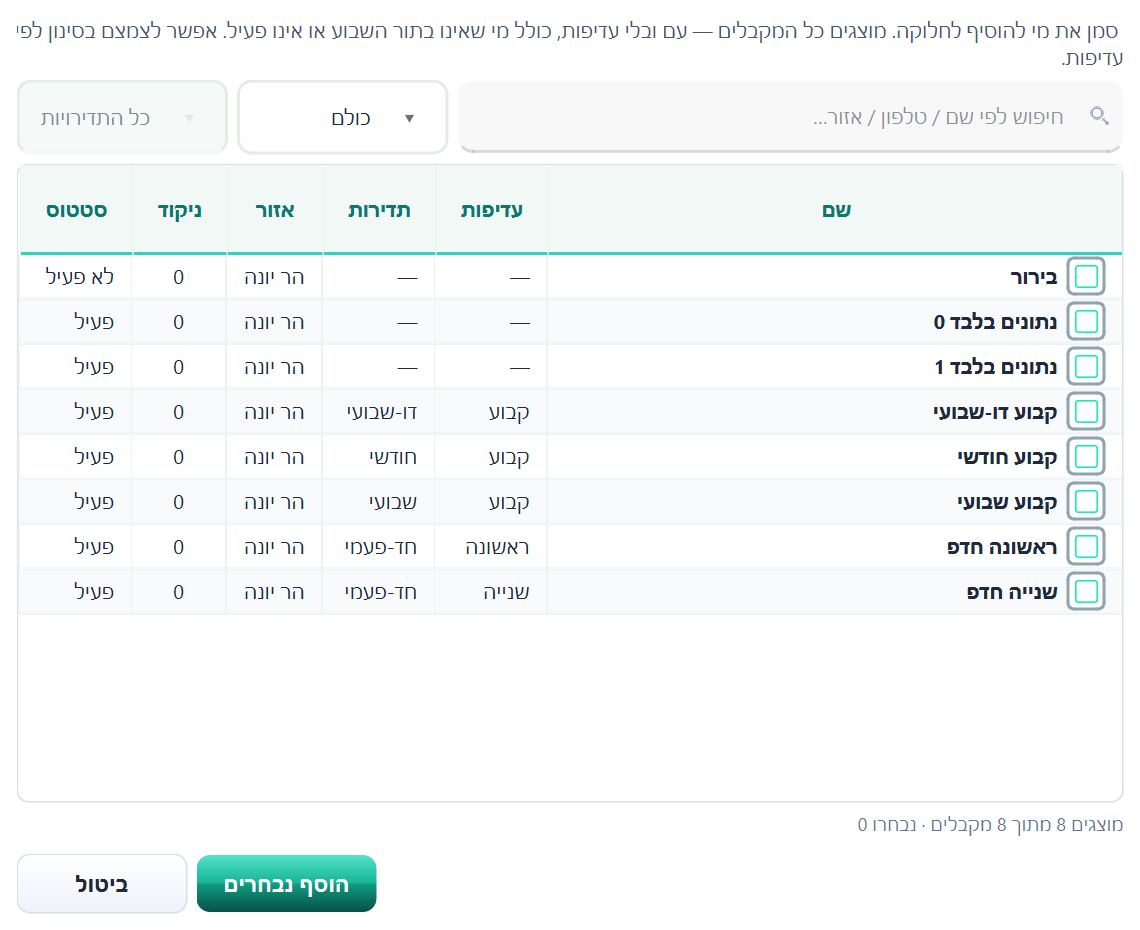
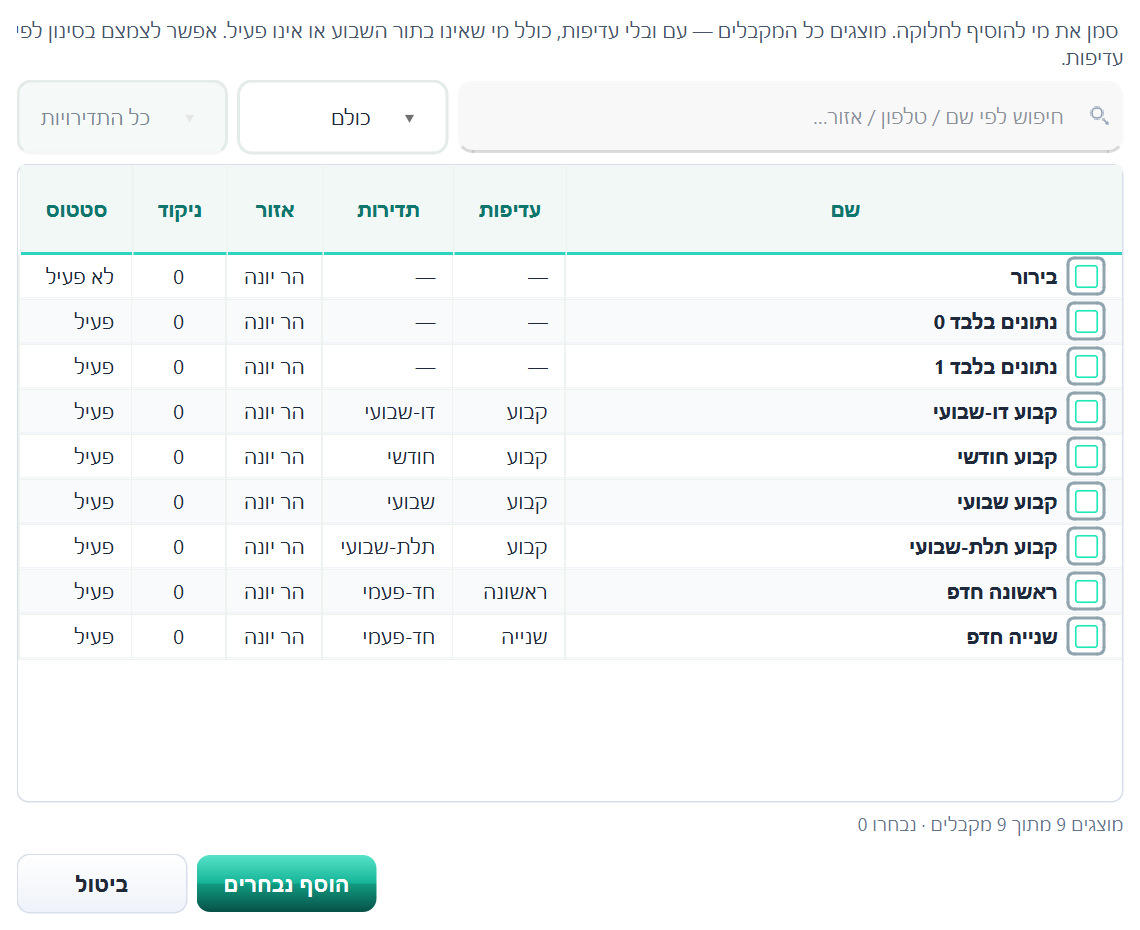
גרסה 3.31 — תדירות חדשה "תלת-שבועי": - בכרטיס המקבל אפשר לבחור תדירות תלת-שבועי (חלוקה כל 3 שבועות, ביום רביעי) - בחלון "הוסף מקבל" אפשר לסנן לפי תלת-שבועי, ובמצב "בלי קבועים" קבועים תלת-שבועיים וחודשיים מוצגים (רק שבועי ודו-שבועי מוסתרים)

diff --git a/דיווח_תקלות.html b/דיווח_תקלות.html
@@ -281,7 +281,7 @@ textarea:focus,select:focus,input[type=search]:focus{
 <div class="toast" id="toast"></div>
 
 <script>
-const APP_VERSION = "3.30";   /* ← מקור אמת יחיד למספר הגרסה בכלי הזה */
+const APP_VERSION = "3.31";   /* ← מקור אמת יחיד למספר הגרסה בכלי הזה */
 
 /* ======================= מבנה התוכנה (לשוניות ופריטים) =======================
    מעודכן לגרסת APP_VERSION — 5 אזורים בתוכנה (חלוקה · אנשים · הודעות · צינתוקים · הגדרות). כולל:
@@ -317,7 +317,7 @@ const APP_STRUCTURE = [
   { key:"recipients", name:"מקבלים (אזור 'אנשים')", icon:"👥", items:[
     {key:"search", name:"שדה חיפוש", type:"field", desc:"שם, טלפון, ת״ז, כתובת"},
     {key:"filter", name:"סינון סטטוס / עדיפות", type:"action", desc:"פעיל/מושהה, לפי דרגה"},
-    {key:"add",    name:"כפתור: + הוסף מקבל", type:"button", desc:"טופס הוספת משפחה/מקבל (תדירות מוצגת רק ל'קבוע')"},
+    {key:"add",    name:"כפתור: + הוסף מקבל", type:"button", desc:"טופס הוספת משפחה/מקבל (תדירות מוצגת רק ל'קבוע'; מ-3.31 גם תלת-שבועי)"},
     {key:"import", name:"כפתור: יבוא מ-Excel", type:"button", desc:"ייבוא רשימה שלמה מאקסל"},
     {key:"dups",   name:"כפתור: בדיקת כפילויות", type:"button", desc:"מאתר רשומות כפולות"},
     {key:"alert",  name:"תג 'לא הגיע' / התראת אי-הגעה", type:"action", desc:"מוצג ברשימה ובכרטיס למי שלא הגיע כמה חלוקות ברצף"},

diff --git a/dev/_shot_recip_freq.py b/dev/_shot_recip_freq.py
@@ -1,0 +1,33 @@
+# -*- coding: utf-8 -*-
+"""RecipientDialog with priority 'קבוע' → frequency combo shows תלת-שבועי."""
+import sys, os, tempfile
+sys.path.insert(0, os.path.dirname(os.path.dirname(os.path.abspath(__file__))))
+from PyQt6.QtWidgets import QApplication
+from PyQt6.QtCore import Qt
+from PyQt6.QtGui import QFont
+import database as db
+d = tempfile.mkdtemp(); db.DB_PATH = os.path.join(d, "x.db"); db.BACKUP_DIR = os.path.join(d, "b")
+db.init_db()
+app = QApplication(sys.argv); app.setLayoutDirection(Qt.LayoutDirection.RightToLeft)
+try:
+    from qt_material import apply_stylesheet
+    from styles import EXTRA_QSS, QT_MATERIAL_EXTRA
+    apply_stylesheet(app, theme="light_teal.xml", invert_secondary=True, extra=QT_MATERIAL_EXTRA)
+    app.setStyleSheet(app.styleSheet() + EXTRA_QSS)
+except Exception:
+    pass
+app.setFont(QFont("Segoe UI", 11))
+from tabs.recipients import RecipientDialog
+dlg = RecipientDialog(None, {"full_name": "כהן ישראל", "priority": 4, "frequency": "תלת-שבועי",
+                             "status": "פעיל", "last_distribution": "2026-09-02"})
+dlg.setAttribute(Qt.WidgetAttribute.WA_DontShowOnScreen, True); dlg.resize(640, 820); dlg.show(); app.processEvents()
+items = [dlg.f_freq.itemText(i) for i in range(dlg.f_freq.count())]
+print("items:", items, "| current:", dlg.f_freq.currentText())
+assert "תלת-שבועי" in items and dlg.f_freq.currentText() == "תלת-שבועי"
+app.processEvents()
+OUT = os.path.join(os.path.dirname(__file__), "shots_sync"); os.makedirs(OUT, exist_ok=True)
+dlg.grab().save(os.path.join(OUT, "recip_freq.png"))
+
+print("OK")
+r = dlg.f_freq.rect(); tl = dlg.f_freq.mapTo(dlg, r.topLeft()); br = dlg.f_freq.mapTo(dlg, r.bottomRight())
+print("dialog:", dlg.size(), "| freq field in dialog coords:", tl, br, "| visibleRegion:", dlg.f_freq.visibleRegion().boundingRect())

diff --git a/tabs/group_update.py b/tabs/group_update.py
@@ -493,7 +493,8 @@ class _ManualAddDialog(QDialog):
         txt = ("סמן את מי להוסיף לחלוקה. מוצגים כל המקבלים — עם ובלי עדיפות, "
                "כולל מי שאינו בתור השבוע או אינו פעיל. אפשר לצמצם בסינון לפי עדיפות.")
         if self._hide_freq:
-            txt += " במצב 'בלי קבועים' הקבועים השבועיים והדו-שבועיים אינם מוצגים."
+            txt += (" במצב 'בלי קבועים' הקבועים השבועיים והדו-שבועיים אינם מוצגים "
+                    "(תלת-שבועיים וחודשיים — כן).")
         intro = QLabel(txt)
         intro.setWordWrap(True)
         intro.setStyleSheet("color:#475569; font-size:12.5px;")
@@ -520,7 +521,7 @@ class _ManualAddDialog(QDialog):
         # Frequency is a REGULARS-only notion (#dy39u): the combo is enabled
         # only while the priority filter is 'קבוע'; otherwise it resets and greys out.
         self._freq_filter = QComboBox()
-        for label in ("כל התדירויות", "שבועי", "דו-שבועי", "חודשי"):
+        for label in ("כל התדירויות", "שבועי", "דו-שבועי", "תלת-שבועי", "חודשי"):
             self._freq_filter.addItem(label)
         self._freq_filter.currentIndexChanged.connect(self._refill)
         self._freq_filter.setToolTip("סינון לפי תדירות — רלוונטי רק לקבועים")

diff --git a/dev/_shot_manualadd.py b/dev/_shot_manualadd.py
@@ -15,6 +15,7 @@ seed = [
     ("קבוע שבועי", 4, "שבועי", "פעיל"),
     ("קבוע דו-שבועי", 4, "דו-שבועי", "פעיל"),
     ("קבוע חודשי", 4, "חודשי", "פעיל"),
+    ("קבוע תלת-שבועי", 4, "תלת-שבועי", "פעיל"),
     ("ראשונה חדפ", 3, "חד-פעמי", "פעיל"),
     ("שנייה חדפ", 2, "חד-פעמי", "פעיל"),
     ("נתונים בלבד 1", 1, "", "פעיל"),
@@ -65,9 +66,9 @@ dlg2.setAttribute(Qt.WidgetAttribute.WA_DontShowOnScreen, True)
 dlg2.show(); app.processEvents()
 exp = sorted(n for n, pr, fr, _ in seed if not (pr == 4 and fr in ("שבועי", "דו-שבועי")))
 assert names(dlg2) == exp, names(dlg2)
-assert "קבוע חודשי" in names(dlg2)
+assert "קבוע חודשי" in names(dlg2) and "קבוע תלת-שבועי" in names(dlg2)
 dlg2._prio_filter.setCurrentText("קבוע"); app.processEvents()
-assert names(dlg2) == ["קבוע חודשי"], names(dlg2)
+assert names(dlg2) == ["קבוע חודשי", "קבוע תלת-שבועי"], names(dlg2)
 dlg2._prio_filter.setCurrentText("כולם"); app.processEvents()
 assert dlg2._hidden_count == 2 and "בלי 2 קבועים" in dlg2._lbl_count.text(), dlg2._lbl_count.text()
 assert dlg._hidden_count == 0 and "מוסתרים" not in dlg._lbl_count.text(), dlg._lbl_count.text()

diff --git a/test_all.py b/test_all.py
@@ -178,7 +178,7 @@ print("\n=== רובד 9: calculate_next_dist ===")
 from database import calculate_next_dist
 from datetime import date
 
-for freq in ["שבועי", "דו-שבועי", "חודשי", "חד-פעמי", ""]:
+for freq in ["שבועי", "דו-שבועי", "תלת-שבועי", "חודשי", "חד-פעמי", ""]:
     d = calculate_next_dist("2026-05-27", freq)
     check(f"next_dist({freq or 'ריק'}) = יום רביעי", d.weekday() == 2, f"({d})")
 
@@ -192,6 +192,9 @@ check("שבועי interval >= 7 days", (d_weekly - date(2026, 5, 27)).days >= 1)
 
 d_biweekly = calculate_next_dist("2026-05-27", "דו-שבועי")
 check("דו-שבועי interval >= 13 days", (d_biweekly - date(2026, 5, 27)).days >= 13)
+
+d_triweekly = calculate_next_dist("2026-05-27", "תלת-שבועי")
+check("תלת-שבועי = בדיוק 21 ימים", (d_triweekly - date(2026, 5, 27)).days == 21, f"({d_triweekly})")
 
 
 # ══════════════════════════════════════════════════════════════════════════════

diff --git a/tabs/recipients.py b/tabs/recipients.py
@@ -830,7 +830,7 @@ class RecipientDialog(QDialog):
         # for ללא/בירור it is '' — see _effective_frequency(). This removes the
         # confusing empty option (#fw5s2) and the frequency-without-קבוע case (#j6czs).
         self.f_freq = QComboBox()
-        self.f_freq.addItems(["שבועי", "דו-שבועי", "חודשי"])
+        self.f_freq.addItems(["שבועי", "דו-שבועי", "תלת-שבועי", "חודשי"])
         self.f_freq.setLayoutDirection(Qt.LayoutDirection.RightToLeft)
 
         self.f_status = QComboBox()

diff --git a/database.py b/database.py
@@ -896,6 +896,8 @@ def calculate_next_dist(last_date_str: str, frequency: str) -> date:
         return next_wednesday(last + timedelta(days=1))
     elif frequency == "דו-שבועי":
         return next_wednesday(last + timedelta(days=13))
+    elif frequency == "תלת-שבועי":
+        return next_wednesday(last + timedelta(days=20))
     elif frequency == "חודשי":
         return next_wednesday(last + timedelta(days=29))
     else:

diff --git a/version.py b/version.py
@@ -4,4 +4,4 @@ Bump this on every release and publish a matching GitHub release tagged
 ``v<APP_VERSION>`` (e.g. v1.1) with the EXE attached as ``Manhal-Haluka.exe``.
 The in-app updater compares this value against the latest GitHub release.
 """
-APP_VERSION = "3.30"
+APP_VERSION = "3.31"

diff --git a/CLAUDE.md b/CLAUDE.md
@@ -246,7 +246,7 @@ python -m PyInstaller --noconfirm --clean מנהל_חלוקה.spec   # → dist/
 ## כללים עסקיים קריטיים
 - **נפשות בייבוא** = "ילדים בבית" + מבוגרים במשק הבית. מבוגרים נגזר ממצב אישי (`_adults_in_household` ב-`utils/excel_utils.py`): חד-הורי (גרוש/אלמן/רווק/פרוד — עם נרמול אותיות סופיות) = 1, נשוי/ריק/לא ידוע = 2.
 - חד-פעמיים לא ברשימה השבועית. שם-חלוקה חובה לפני הדפסה/שליחה (למשל "חלוקת פסח").
-- `calculate_next_dist`: שבועי≈+7, דו-שבועי≈+13, חודשי≈+29 — תמיד רביעי הקרוב. `get_weekly_list` מבטיח שרביעי הקרוב נכלל בכל יום בשבוע. **קבוע שטרם קיבל** (`last_distribution` ריק) = חייב **מיד** ברביעי הקרוב (כולל היום אם היום רביעי), לא שבוע קדימה — אחרת קבוע שנוסף ביום החלוקה נעלם מהרשימה (bug #pv59q). `get_weekly_list` גם מתקן-עצמית `next_distribution` שנשמר שבוע קדימה.
+- `calculate_next_dist`: שבועי≈+7, דו-שבועי≈+13, תלת-שבועי=+21, חודשי≈+29 — תמיד רביעי הקרוב. `get_weekly_list` מבטיח שרביעי הקרוב נכלל בכל יום בשבוע. **קבוע שטרם קיבל** (`last_distribution` ריק) = חייב **מיד** ברביעי הקרוב (כולל היום אם היום רביעי), לא שבוע קדימה — אחרת קבוע שנוסף ביום החלוקה נעלם מהרשימה (bug #pv59q). `get_weekly_list` גם מתקן-עצמית `next_distribution` שנשמר שבוע קדימה.
 - מחיקת מקבל עם היסטוריה → `ValueError` (שנה סטטוס / מחיקה כפויה).
 - הדפסה (`utils/print_view.py`): טבלה RTL (עמודות בסדר הפוך), לוגו + "קופה של צדקה הר יונה", ☐ בעמודת ביצוע, כיווץ גופן 11→6 למינימום דפים, ערכים דרך `html.escape`.
 
